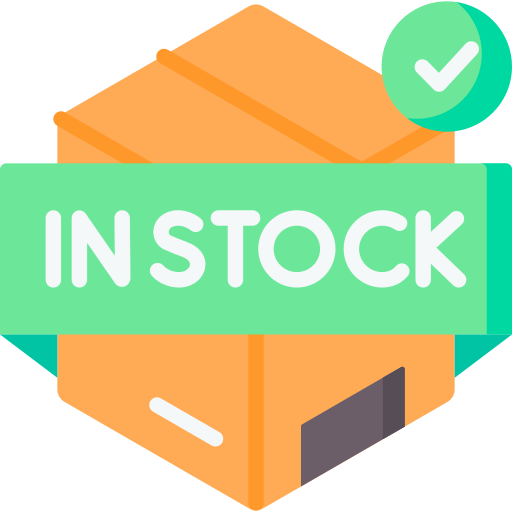
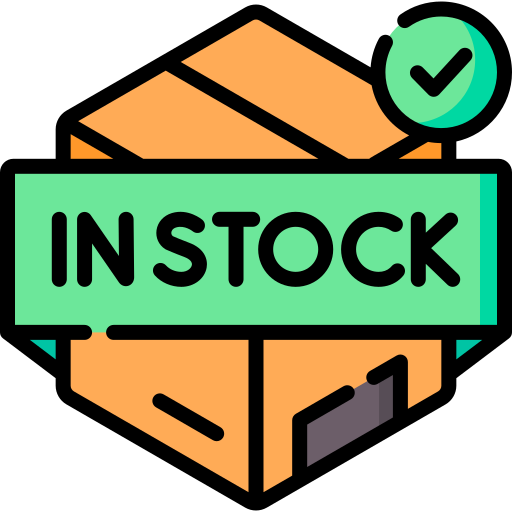
Add files via upload

diff --git a/iframe.html b/iframe.html
@@ -11,6 +11,6 @@
   </style>
 </head>
 <body>
-  <iframe id="app-frame" src="https://script.google.com/macros/s/AKfycby_0AhHXObYvpUMeSEJUlIVh8c1oxz29Au7JHbX4aKeVigE8Wq9KI1D48EcuWdzIIxsMQ/exec" allow="autoplay; clipboard-write; encrypted-media; picture-in-picture; web-share"></iframe>
+  <iframe id="app-frame" src="https://script.google.com/macros/s/AKfycbwC3xveGqgNQrVpNG3gQOK3nuAFT6D6j2uNn8xZl6BoMZj7zg58i3Xot3Fbb7czQIAg0Q/exec" allow="autoplay; clipboard-write; encrypted-media; picture-in-picture; web-share"></iframe>
 </body>
 </html>

diff --git a/index_standalone.html b/index_standalone.html
@@ -2476,7 +2476,7 @@
 
     // Helper: Call Google Apps Script Backend
         // ======= VERCEL / STANDALONE MODE: fetch-based API call to GAS =======
-    const GAS_API_URL = 'https://script.google.com/macros/s/AKfycby_0AhHXObYvpUMeSEJUlIVh8c1oxz29Au7JHbX4aKeVigE8Wq9KI1D48EcuWdzIIxsMQ/exec';
+    const GAS_API_URL = 'https://script.google.com/macros/s/AKfycbwC3xveGqgNQrVpNG3gQOK3nuAFT6D6j2uNn8xZl6BoMZj7zg58i3Xot3Fbb7czQIAg0Q/exec';
 
     function buildApiParams(action, args) {
       const p = { action };
